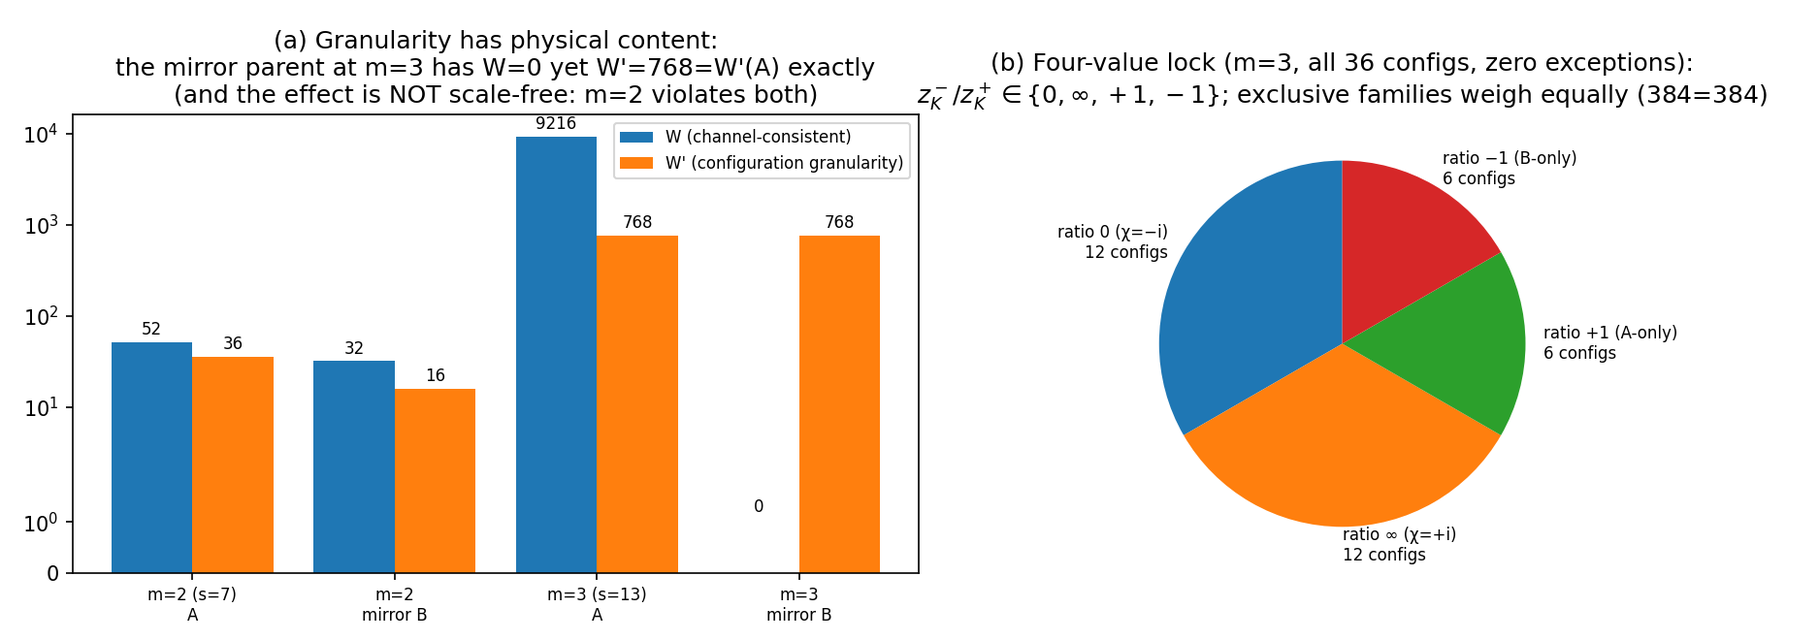
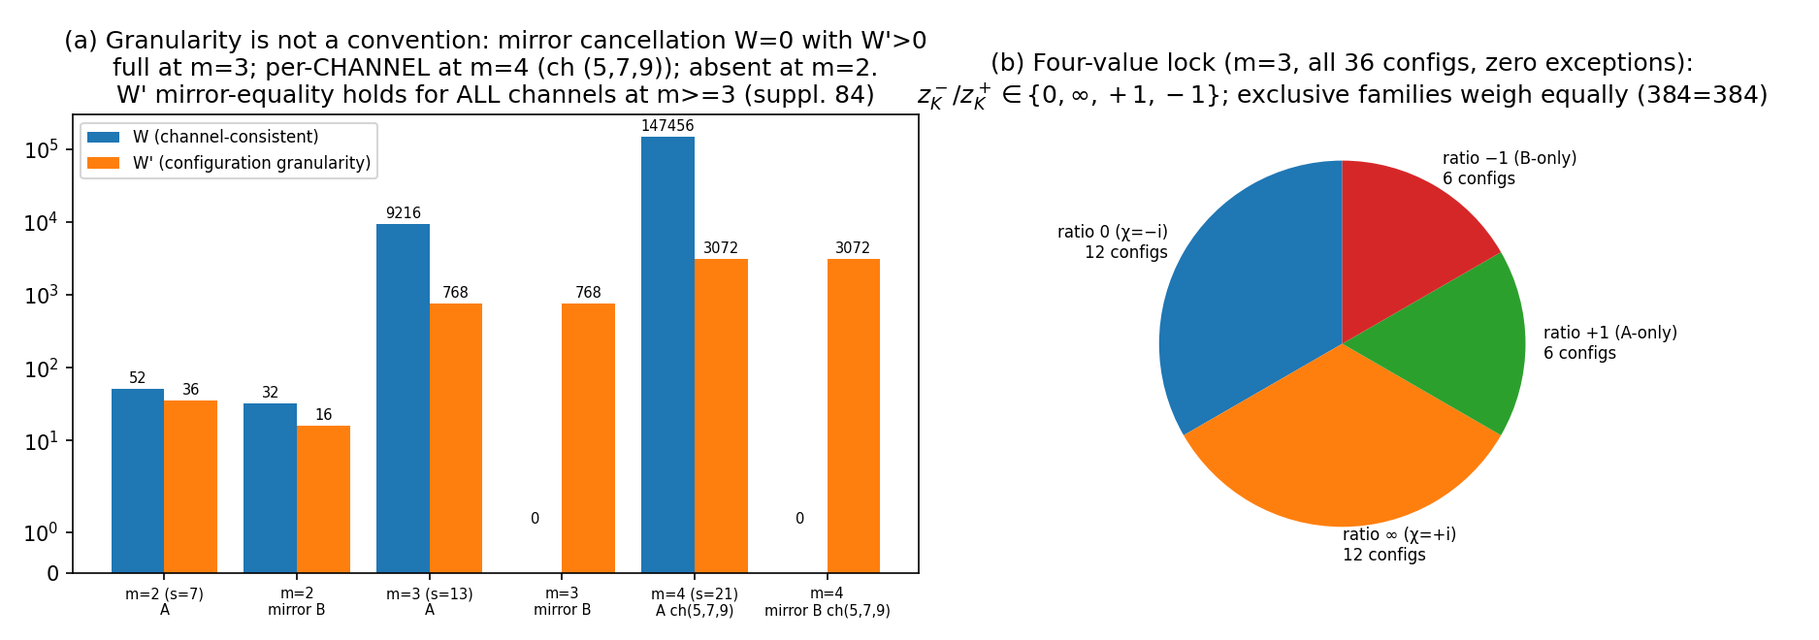
論文16 v1.0 確定: 第2回査読（採録）R1〜R6反映 — 補遺84を§5本文と図3へ伝播（m=4チャネル単体相殺・W′同値m≥3）・定理6(iii)非自明化・圧縮補題・分布幅・用語注記。Untitled重複削除

diff --git a/波長空間と周波数空間の双対幾何/paper16_figures.py b/波長空間と周波数空間の双対幾何/paper16_figures.py
@@ -42,14 +42,14 @@ plt.tight_layout(); plt.savefig('paper16_fig2_divergence.png',dpi=150); plt.clos
 
 # fig3: 粒度の物理 (鏡像親) + 四値ロック
 fig,ax=plt.subplots(1,2,figsize=(12.5,4.4))
-groups=['m=2 (s=7)\nA','m=2\nmirror B','m=3 (s=13)\nA','m=3\nmirror B']
-Wch=[52,32,9216,0]; Wcf=[36,16,768,768]
-xx=np.arange(4)
+groups=['m=2 (s=7)\nA','m=2\nmirror B','m=3 (s=13)\nA','m=3\nmirror B','m=4 (s=21)\nA ch(5,7,9)','m=4\nmirror B ch(5,7,9)']
+Wch=[52,32,9216,0,147456,0]; Wcf=[36,16,768,768,3072,3072]
+xx=np.arange(6)
 b1=ax[0].bar(xx-0.2,Wch,0.4,label='W (channel-consistent)')
 b2=ax[0].bar(xx+0.2,Wcf,0.4,label="W' (configuration granularity)")
-ax[0].set_yscale('symlog'); ax[0].set_xticks(xx); ax[0].set_xticklabels(groups,fontsize=8)
-for b,v in zip(list(b1)+list(b2),Wch+Wcf): ax[0].text(b.get_x()+b.get_width()/2,max(v,1)*1.2,str(v),ha='center',fontsize=8)
-ax[0].set_title("(a) Granularity has physical content:\nthe mirror parent at m=3 has W=0 yet W'=768=W'(A) exactly\n(and the effect is NOT scale-free: m=2 violates both)")
+ax[0].set_yscale('symlog'); ax[0].set_xticks(xx); ax[0].set_xticklabels(groups,fontsize=7)
+for b,v in zip(list(b1)+list(b2),Wch+Wcf): ax[0].text(b.get_x()+b.get_width()/2,max(v,1)*1.2,str(v),ha='center',fontsize=7)
+ax[0].set_title("(a) Granularity is not a convention: mirror cancellation W=0 with W'>0\nfull at m=3; per-CHANNEL at m=4 (ch (5,7,9)); absent at m=2.\nW' mirror-equality holds for ALL channels at m>=3 (suppl. 84)")
 ax[0].legend(fontsize=8)
 sizes=[12,12,6,6]
 lbl=['ratio 0 (χ=−i)','ratio ∞ (χ=+i)','ratio +1 (A-only)','ratio −1 (B-only)']

diff --git a/波長空間と周波数空間の双対幾何/paper16_measure_granularity_ja_v1_0.md b/波長空間と周波数空間の双対幾何/paper16_measure_granularity_ja_v1_0.md
@@ -1,0 +1,132 @@
+# 論文16:測度問題の厳密な縮約 — 干渉粒度・イベント構造・条件付けへの有限分解
+
+**著者**: 木原範昭
+**作成**: 2026年6月12日
+**版**: v1.0(確定版。v0.2=第1回査読[中改訂]反映、v1.0=第2回査読[採録・軽微修正条件付き]の R1〜R6 を反映)
+**シリーズ**: 波長空間と周波数空間の双対幾何(論文1〜15 の続編、第16篇)
+
+---
+
+## 要旨
+
+体系は経路振幅(輸送位相 η、論文14)を自由パラメータなしで与える — 確率の**素材**は完全に揃っている。決まっていないのは素材をどう束ねるかの**集計規則**であり、これは標準理論が Born 則として公理で置く当のものである。本論文は集計規則を**選定しない**。本論文の主結果は、選定問題そのものの**厳密な縮約**である:(1) **歴史的な近接 0.0007 は意味のある一致ではなかった**(定理1):s=9 の双子観測量は、排他による2結果強制と両測度の支配結果集中の**二重圧縮**で全変動距離が潰れる構造であり、3結果空間が開く s=11 で乖離は 0.24 へ**3桁跳躍**する。(2) **構造的乖離**(定理2):導出測度(振幅)は数え上げ測度(配置数)に古典化しない — 乖離は s とともに恒常的に O(0.1〜0.9) であり、集計の規約幅(graded 変種)でも消えない。**両測度は台(ゼロの位置)を共有し、重みでのみ乖離する**(3シェル双方向)。(3) **干渉粒度は規約に還元されない**(定理3・非規約性):「どの代替をコヒーレントに足すか」の選択 — チャネル一貫(歴史的 W)か配置粒度(W′)か — は規約ではない。鏡像親の厳密例:$(-3,0,0,0)$ は**チャネル一貫では完全に消え(W=0 厳密)、配置粒度では完全に正常(W′=768=W′(A) 厳密)**。しかもこの相殺はスケール自由でなく(m=2 で不成立)、その発生条件は**四値ロック**($z^-_K/z^+_K\in\{0,\infty,\pm1\}$、36配置全数・例外ゼロ)という**証明対象の代数**に還元済みである。(4) **条件付けは枝チャネル層を要求する**(定理4):双子測度は親対の関係クラスの関数であり(全クラスで一定、例外ゼロ)、強度縞が読めない相対符号(dot の符号)に依存する — 読み出し三層 11⊂13⊂21(論文13)のうち**層3(枝チャネル)だけが測度を支える**。(5) **イベント構造はちょうど1ビット**:一回(合併キー)か逐次(分割キー)かは記録原理を介して干渉粒度に翻訳され、数え上げ側の歴史的二分(一括/逐次)はその位相なし影である — 2×2表が数値で完成している。(6) **総括(主定理)**:集計規則の残る自由度は**干渉粒度 × イベント構造1ビット × 枝チャネル条件付け**の有限な決定構造に縮約され、候補間の判定は**モデル内部で計算可能な実験**(判定表 §9)として立っている。付録に、この線で証明済みの相殺定理群(η² 等分布の対合 σ\*\*・A1 シェル対合・B2 トーサー残差×因数分解・鏡像反転補題と指標和還元)を、監査済みの範囲限定つきで収める。Born 則は本縮約の下で「然るべき極限で合流すべき有効則」の地位に置かれ、合格基準は**収束・抑制(統計的検閲 ~1/√N)・予言**の三つ組である。物理的同一視は行わない。
+
+---
+
+## 1. 序論
+
+### 1.1 問いと、本論文が選定をしない理由
+
+論文5〜15 で、状態・保存・時間・位置・位相・座標は定理または機械検証として確立した。残るのは:振幅 $\eta$ の集合から**確率**を作る規則 — どの代替をコヒーレントに足し(粒度)、何で条件付け、どのイベント構造で読むか — である。標準理論はここを Born 則という**公理**で済ませる。本体系は逆に、候補となる集計が**導出できすぎる**:逐次・一括(数え上げ)、チャネル一貫・配置粒度(振幅)、一回・逐次(結合振幅)— いずれも在庫から定義でき、有限の s で**真に異なる値**を与える。したがって現段階の誠実な成果は「どれが正しいか」の宣言ではなく、**選定問題を有限の決定構造に縮約し、判定実験を内部に立てる**ことである。それが本論文である。
+
+### 1.2 主張しないこと
+
+(i) 集計規則の選定(本論文の全結果は選定に依存しない)。(ii) Born 則の導出(地位の整理まで — §10)。(iii) 偏差の実在(構造の所在の特定まで)。(iv) 物理的同一視。
+
+## 2. 定義(一般 s の測度族)
+
+双子 $(s,s)$ に対し(容量 $c(m)=|SH[m]|$、チャネル=`all_finals(s)`):
+
+- **D1(逐次数え上げ)**: 先手チャネル確率 ∝ 残容量上の配置数、後手は条件付き更新。良定義性の鍵は補題「条件付き配置数は殻ごとの占有数のみに依存する」(容量二項係数の積)。
+- **D2(一括数え上げ)**: 結合終配置の等重。
+- **D3(導出双子)**: $P\propto \mathrm{mult}\cdot W_{F_1}W_{F_2}\cdot[$結合容量整合$]$。$W_F=|z_F|^2$ は正準規約(論文14 定理5)のチャネル一貫振幅。
+- **W′(配置粒度)**: $W'_F=\sum_K|z_K|^2$(終配置 $K$ ごとに二乗してから和)。
+- **D4(追跡量)**: $\Delta(s)=\mathrm{TV}(\text{D3},\text{D1})$、$\Delta'(s)$ は W′ 版。
+
+アンカー(s=9)全点厳密再現:逐次 396/403、一括 60/61、導出 0.98195、$\Delta(9)=0.00068$、単一崩壊 24/31。
+
+## 3. 定理1:0.0007 の正体は二結果圧縮
+
+**圧縮補題(一行)**: 二つの確率分布が同一の支配結果に質量 $\ge1-\varepsilon$ を置くとき $\mathrm{TV}\le2\varepsilon$。s=9 の双子では (i) 排他(原点の唯一性)が結果空間を2結果に強制し、(ii) 両測度とも支配結果に ~0.98 集中($\varepsilon\approx0.018$)— この二重圧縮が TV を潰していた(図1a)。s=11 の3結果空間で圧縮が解けると $\Delta(11)=0.24136$ — **3桁の跳躍**(図1b)。傍証:単一崩壊水準では s=9 でも 0.774 vs 0.965 と大差;セクターB は s=9 でも $\Delta_B=0.030$。**0.98195 と 0.98263 の近接は s=9・セクターA 限定の偶然**であり、歴史的な「測度候補に近接」の意義づけはここで訂正される(値は不変)。
+
+## 4. 定理2:構造的乖離(古典化しない)
+
+**検証域の明示**:本定理は $s\in\{9,11,13\}$ の全数水準(3点系列)の言明である。$\Delta(s)$ はこの系列で 0.0007 → 0.24 → 最大 0.90(親型・セクター依存が大;図2)。数え上げ側内部の幅(TV(逐次,一括))は常に一桁小さい。容量整合を比率化する規約変種(graded)でも乖離 O(0.1) は消えない — **乖離は規約幅に対して頑健**。独立の一般 s 観測量 $D(s)=\mathrm{TV}$(コヒーレント, インコヒーレント) も 0.135→0.140→0.185 と縮まらない。一方、**台の一致**:容量不能チャネルと振幅零チャネルは s=9/11/13 で双方向に一致((1,1,s−2) 型のみ)— 両測度は**ゼロの位置を共有し、重みでのみ乖離する**。
+
+## 5. 定理3:干渉粒度の非規約性
+
+**内部定義(規約)**: 本シリーズで「規約」とは、簿記の値を変えない表示の選択をいう(例:対角・分岐の扱い — 論文14 定理5 の粒度監査)。チャネル一貫和(歴史的 W:記録で区別可能な終配置を跨いでコヒーレント)と配置粒度(W′:配置ごとに二乗)の選択は、この意味の規約では**ない** — 値を代数的に分岐させる(図3a):
+
+| 親 | W(チャネル一貫) | W′(配置粒度) |
+|---|---|---|
+| $(+3,0,0,0)$@13 | 9216 | 768(30配置) |
+| $(-3,0,0,0)$@13(鏡像) | **0(厳密)** | **768 = W′(A) 厳密** |
+
+鏡像親は配置粒度では完全に正常に崩壊し、チャネル一貫の集計だけが健全な分布を厳密零まで歪める。さらに(補遺84 の m=4 実行を §5 本文に反映 — R1):(i) この相殺は**スケール自由でない**(m=2 では W(B)=32≠0、W′ も不一致)— 発生条件が m に依存する。ただし **m=4(s=21)で相殺の単位がチャネルであることが判明**:鏡像は全体としては消えない($S_+-S_-\neq0$、パリティ仮説支持)が、**チャネル (5,7,9) は単体で相殺**($W_A=147456$、$W_B=0$、$W'$ は両者 3072)— 偶 m でもチャネル単位の $W=0\wedge W'>0$ が出現し、粒度間乖離の供給源は奇 m 部分列より**豊富**である。また **W′ の鏡像同値は m≥3 で全チャネル厳密一致**(m=2 の不一致は小 s の例外と見られる)。(ii) その m 依存性は**鏡像反転補題** $\eta_B/\eta_A=-i(-1)^{\sigma_0}$(全数 394経路・反例ゼロ)により**σパリティ指標和の消滅** $S_+=S_-$ に還元され、配置水準では**四値ロック** $z^-_K/z^+_K\in\{0,\infty,+1,-1\}$(m=3 全36配置:12+12+6+6、例外ゼロ;排他族の重み対 384=384;図3b)という証明対象の代数に固定されている。(iii) セクター(ホロノミー)依存は配置粒度でほぼ消える($W'$ は A≈B)— **ホロノミーの情報は配置間の相対位相に局在する**。
+
+**用語注記**: 本論文の鏡像対の「A/B」(親 $\pm m$)と、論文14 §5 のホロノミー類「A/B」は**別物**である — 併読時の混同に注意。
+
+## 6. 定理4:条件付けは枝チャネル層を要求する
+
+双子の結合振幅は親対の相対配置に強く依存する(完全相殺対を含む)。検査の三層区別(査読 #4):**クラス内一定(s=9 セクターA 23対・全9クラス・例外ゼロ)は①構成により真**である — 不変量クラスは B₄×swap 軌道の厳密な分類(補遺76/77)であり、一定性は計算機械の同変性の帰結で反証力を持たない(整合性確認)。**落ちえた検査(③)=本節の牙**はこちらである:クラスのうち dot=±1 の対は**強度縞では区別できないのに P(X) が異なる**(0.972 vs 0.994 — 等しいこともできた)。よって測度は読み出し三層 11⊂13⊂21(論文13 定理3)の**層1〜2 では支えられず、層3(枝チャネル)を要求する**。「干渉粒度=記録区別能」の原理は、層を明示してのみ成立する。床(軸台が交わらない対=配置粒度値 0.96644)も③:粒度監査と独立に一致した。
+
+## 7. イベント構造:ちょうど1ビット
+
+一回イベント(中間追記なし→合併占有集合→分割横断コヒーレント)か、逐次(第一追記が分割を確定)か — 記録原理がこの1ビットを干渉粒度に翻訳する。数え上げの歴史的二分(一括 60/61・逐次 396/403)はその位相なし影であり、全体は 2×2 表に収まる(数値完成):
+
+| | 一回 | 逐次 |
+|---|---|---|
+| 数え上げ | 0.98361 | 0.98263 |
+| 振幅 | 対依存:平均 0.989、幅 [0.966, 1.000]+完全相殺対(両キー残存) | 対依存:平均 0.781、幅 [0, 1] |
+
+振幅側はどちらのイベント構造でも対配置依存が残る — 条件付け(§6)が分離不能の成分であることの表現。
+
+## 8. 証明済みの相殺定理群(範囲限定つき)
+
+この線の探究で、チャネル一貫和の上の厳密相殺が**対合・指標和の様式**で証明された:(i) $\Sigma\eta^2=0$(区分的対合 σ\*\* — 完全性・固定点なし・$\eta\to\pm i\eta$;**s=9 全数水準**)。(ii) A1($\Sigma i^{\delta_1}=0$)— シェル水準の対合 $x\leftrightarrow x\mp2$(借入↔貸出)。(iii) B2(sin枝 $Z_4$ 等分布)— トーサー残差(4解軌道=完全代表系)×段の因数分解;**531 経路集合のファイバー構造に基づき、333 終は等分布しない**。(iv) 鏡像反転補題と指標和還元(§5)。これらは集計規則の候補(チャネル一貫和)の**内部構造**であり、その測度論的地位の裁定(本縮約)と相補的である。
+
+## 9. 主定理(候補族の分類)と判定表
+
+> **定理6(候補族の分類 — 本論文の主定理)**: 在庫から定義された集計候補の族 — {数え上げ D1/D2、振幅のチャネル一貫 W、配置粒度 W′}×{一回、逐次}×{関係クラス条件付けの有無} — について:(i) 族の任意の二候補は有限 $s$($s\le13$ の全数水準)で総変動距離 $O(0.1)$ の差を持ち**得る**(真に異なる測度である)。(ii) 全候補は台の一致(§4)と正準規約(論文14 定理5)を共有する。(iii) **独立に定義された全候補がこの直積に重複なく整理され、三軸の各々は独立である** — どの軸も単独で変えると測度が変わる実例を持つ(粒度:鏡像親 W=0∧W′>0/イベント構造:0.98361 vs 0.98263・結合振幅の平均 0.989 vs 0.781/条件付け:dot=±1 の不等)。本定理は**族内の分類定理**であり、「集計候補はこれに尽きる」という族外の全称は主張しない(査読 #1 による限定;(iii) の非自明な内容は重複なき整理と軸の独立性 — R2)。
+
+### 判定表(モデル内部で計算可能な実験)
+
+| # | 判定実験 | 何が決まるか | 状態 |
+|---|---|---|---|
+| 1 | パリティ仮説:m 奇 ⟺ $S_+=S_-$ | 鏡像相殺の発生条件 | **m=4 実行済み(補遺84):支持** — $S_+-S_-\neq0$、ただしチャネル (5,7,9) は偶 m でも相殺(単位はチャネル別指標和に細分)。**W′ の鏡像同値は m≥3 で一般的**(全チャネル厳密一致)。m=5@s31 が残(Born 負荷点) |
+| 2 | 候補測度の大 s 相互収束($\Delta/\Delta'$ 系列の延長、粒度別) | 測度選択が「深い離散領域のみ」で効くか「全域」で効くか | 未実行 |
+| 3 | ι 構成(隠れ vx の軸0枝反転) | 四値ロックの証明部品 | **実行済み(補遺84):m=3 で完全成立** — 配置保存・σ反転 384/384・乗数 ±1(192/192)。**m=2 では像の集合閉性が 2/10 に破れる** —「なぜ m 偶で壊れるか」の構造的住所=ι の閉性。残:乗数の配置内分布則 |
+| 4 | ゲージ独立性(マーキング・向き付けに対する測度の不変性) | 原理 v2 の反証可能内容①(クラス内一定は同変性で自動のため) | 未実行 |
+| 5 | s=11 非飽和域の同型対比較 | dot=±2 等値が飽和の偶然か追加対称性か | 未実行 |
+
+## 10. Born 則の地位と合格基準
+
+本縮約の下で、Born 則は「再現すべき厳密な的」ではなく**極限と検閲精度の中で合流すべき有効則**である。合格基準は三つ組:**収束**(選定測度が然るべき極限で Born に合流 — 極限写像自体が構成課題)、**抑制**(検証済み領域で偏差が**統計的検閲** ~1/√N 以下 — 論文15 の検閲量子の統計版)、**予言**(検閲を超える偏差が住む領域=深い離散領域での検証可能な構造 — 粒度・パリティ・量子化)。下限は確保されている:内部原理で決まらなければ集計規則を一つ公準として置けばよく、それで公理勘定は標準理論と同水準に並ぶ(下回らない)。上振れは、記録原理(枝チャネル層)が集計を一意化する場合であり、そのとき Born の類似物は定理になる。
+
+## 11. 正直な限界
+
+1. **選定はしていない**(§1.2)— 本論文の縮約は選定の前提整理であり、決定構造の3成分のどれが先に固定されるかは判定表の実行に依る。
+2. 数値系列は s≤13(一部 s=11)の全数事実。大 s の挙動は判定表2。
+3. 結合振幅の親対掃引は s=9・セクターA(23対)。s≥11 の掃引・混合セクター対は未実行。
+4. 四値ロック・重み対は m=3 の全数事実(証明は判定表3の仕様で進行中)。
+5. 物理的同一視は行わない。
+
+## 図
+
+- **図1**(`paper16_fig1_compression.png`): 二結果圧縮 — s=9(2結果・Δ=0.00068)と s=11(3結果・Δ=0.24136)の結合分布
+- **図2**(`paper16_fig2_divergence.png`): 乖離の地形 — Δ(s) 全親型系列と配置粒度 Δ′(セクター依存の縮退)
+- **図3**(`paper16_fig3_granularity.png`): 粒度の非規約性 — 鏡像相殺の m 系列(m=2 不成立/m=3 全体/m=4 はチャネル (5,7,9) 単体)と W′ 鏡像同値(m≥3);四値ロック 12+12+6+6 と重み対 384=384
+
+全図は機械検証済み数値の提示(模式図なし)。
+
+## 付録A:検証一覧
+
+| 主張 | ラベル(①構成により真/②定理+確認/③落ちえた検査) | 検証 | 方式 | スクリプト |
+|---|---|---|---|
+| アンカー再現 | ③(再現失敗があり得た) | 全点一致 | 厳密(分数演算) | supplement73_handoff_execution.py |
+| Δ(9/11/13) 全親型 | ③ | 表(図2) | 全数 | 同上 |
+| 台の一致 | ③ | s=9/11/13 双方向 | 全数 | 同上 |
+| graded 規約幅 | ③ | s=9/11/13 | 全数 | 同上 |
+| 鏡像親 W=0∧W′=768 / m=2,4 | ③ | m=1〜4 | 全数 | supplement75/79/84 各スクリプト |
+| クラス一定性 | **①(同変性の帰結 — 整合性確認)** | 23対×全9クラス | 全数 | supplement75_granularity_execution.py |
+| 縞クラステスト(層3要求) | **③(本節の牙)** | dot=±1 不等 | 全数 | 補遺75/77 |
+| 2×2表(A_seq 含む) | ③ | 完成 | 全数/掃引 | supplement75_granularity_execution.py |
+| 相殺定理群(σ\*\*・A1・B2) | ②(対合構成=証明) | s=9 水準 | 全数+対合 | supplement69/70/71 各スクリプト |
+| 鏡像反転補題・指標和還元 | ②(3行算術=証明) | 394経路 反例0 | 全数 | supplement81_mirror_lemma_check.py |
+| 四値ロック・重み対 | ③(現状; ι で②化が進行) | 36配置 例外0・384=384 | 全数 | 補遺83(検証記録)・補遺84(ι) |
+
+---
+
+**謝辞・履歴**: 検証は Claude Code(ローカル機械検証)と claude.ai(独立検算・複数命題の提案と相互訂正)の二者独立検算プロトコルによる。素材:補遺68〜84(2026-06-12;補遺83=四値ロック検証記録、補遺84=m=4/ι 実行)。v0.2:第1回査読 #1〜#6 反映。v1.0:第2回査読(採録・軽微条件付き)R1〜R6 反映 — 補遺84 結果の本文・図3への伝播、定理6(iii) の非自明化、圧縮補題、分布幅、用語注記。本論文の探究では予言の反証(スケール自由性)・説明の訂正(σ₀定数性)・定義の照合(縞三層)が二者間で計7回往復した — 縮約の信頼性はこの相互訂正の履歴に依拠する。
+
+物理的同一視は行わない。

diff --git a/波長空間と周波数空間の双対幾何/paper16_review_claudeai_round2.md b/波長空間と周波数空間の双対幾何/paper16_review_claudeai_round2.md
@@ -1,0 +1,47 @@
+# 論文16(測度問題の厳密な縮約)v0.2 査読報告 — 第2回(claude.ai)
+
+**査読対象**: paper16_measure_granularity_ja_v0_2.md
+**査読日**: 2026年6月12日
+**判定**: **採録(軽微修正条件付き)** — 必須6件は全て解消。残るは編集水準(R1〜R6)。第3回査読は不要(差分確認のみ)。
+
+## 第1回必須指摘の反映状況
+
+| # | 指摘 | 状況 |
+|---|---|---|
+| 1 | 主定理の形式化+範囲限定 | ✓ 定理6(族内分類定理)— 「族外の全称は主張しない」の明記つき(R2 で一段精密化可) |
+| 2 | 定理2 の検証域焼き込み | ✓ 「本定理は s∈{9,11,13} の全数水準の言明」を定理冒頭に |
+| 3 | 「物理的内容」の D7 | ✓ 「非規約性」へ改名+規約の内部定義(簿記の値を変えない表示の選択 — 論文14 粒度監査に接続)— 綺麗な解 |
+| 4 | 定理4 の二分 | ✓ クラス内一定=①(同変性の帰結・整合性確認)/牙=③ dot=±1 不等(「等しいこともできた」)/床も③ — 付録A 行も分割。**模範対応** |
+| 5 | m=4/ι の公開前実行 | ✓ 補遺84 として実行済み、判定表 1・3 行に結果反映 |
+| 6 | 補遺83 受領 | ✓ 受領・整合確認済み(768=384+384 の分解検算込み) |
+
+推奨のうち #9(①②③ラベル列)も反映済み — 「アンカー再現=③(再現失敗があり得た)」「四値ロック=③(ι で②化が進行)」等のラベル付与は的確。
+
+## 採録条件(軽微修正 R1〜R6)
+
+**R1 補遺84 の結果を §5 本文へ伝播せよ。** m=4 の精密構造(全チャネル相殺は不成立だが **(5,7,9) チャネル単体は相殺** — 相殺の単位はチャネル別指標和)と **W′ 鏡像同値の m≥3 一般性**(全6チャネル厳密一致)が、現在**判定表の中にだけ**存在する。§5(i) は m=2 反証までの旧叙述のままであり、(iii) の「W′ は A≈B」(ホロノミーセクター)とは別命題である鏡像 W′ 同値を本文に明記すること。図3 の凡例(可能ならパネル)にも m=4 を反映。
+
+**R2 定理6(iii) の精密化。** 「族は三軸で張られる」は族の定義(直積)による①に近い。主張を「**歴史的に独立定義された全候補(D1/D2/D3/graded/W′/キー2種/条件付け)が三軸の直積に重複なく整理され、かつ各軸は独立**(単独で変えると測度が変わる実例が §3〜7 の数値に存在)」へ — 軸の独立性こそ数値が支える非自明な内容である。
+
+**R3 要旨(3)の表現統一。** 「証明可能な代数に還元済み」→「**証明対象**の代数(ι により②化進行中)」— §5・付録A の正確な表現に合わせる。
+
+**R4 圧縮補題の一行**(第1回推奨#7):「二分布が同一結果に ≥1−δ 集中するとき TV≤δ」を §3 に — 定理1 が補題+数値になる。
+
+**R5 細部2件**:§7 表の振幅側に分布幅(床・天井)併記(推奨#10)/付録A 表の区切り行が列数5に対し4(整形)。
+
+**R6 「セクター」用語注記。** 本論文はホロノミーセクター A/B(§3, §5(iii))と鏡像対 A/B(§5 表)が併存する — 論文14 R4 と同文の一行注記を。
+
+## 特記
+
+#4 への対応(クラス内一定の①降格)は、自論文の見かけ上の証拠を自ら格下げする修正であり、三層区別の規律が著者側に内面化された証拠である。判定表の運用(実行済み項目に結果と残課題を書き込む生きた表)は、決着前出版の形式として完成した。m=5@s31 は判定表に「残(Born 負荷点)」として正直に登録されており、本論文の主張はそれに依存しない — 公開を妨げない。R1〜R6 反映版は差分確認のみで採録確定。
+
+## 全体状況(4本)
+
+| 論文 | 判定 | 残作業 |
+|---|---|---|
+| 13 | 採録(軽微 R1〜R5) | ガウス証明の本文化ほか |
+| 14 | 採録(軽微 R1〜R6) | ラベル列・命題1′ 証明転記ほか |
+| 15 | 採録維持 | 一行2件+EN連動+**13/14 番号フリーズ後の最終引用パス** |
+| 16 | 採録(軽微 R1〜R6) | 補遺84 の本文伝播ほか |
+
+推奨進行:13/14/16 の R 反映(定理番号フリーズ)→ 15 最終パス → 公開 13→14→15→16。査読者側の残務:64セル域三層計数の独立再計算(13 R5、計算枠復帰時)。
